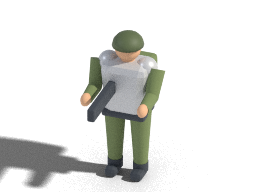
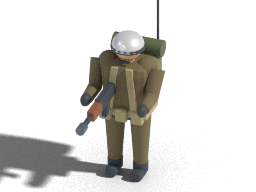
Rifleman after the concept sheet: team-colour helmet with star, field jacket, webbing, pack with bedroll and antenna, wooden rifle

diff --git a/tools/sprites/rh_models.py b/tools/sprites/rh_models.py
@@ -1091,9 +1091,11 @@ class Soldier:
         b = self.body
         vest = C['team']
         bulky = kind in ('arc', 'sapper', 'isotope')
-        gloved = bulky or kind == 'blink'
+        gloved = bulky or kind in ('blink', 'rifle')
         uniform = C['uniform']
-        if kind == 'sniper':
+        if kind == 'rifle':   # field jacket, after the concept sheet
+            uniform = mat('#675a3b' if f == 'allied' else '#7d6f4c', rough=0.85, name='fieldjacket_' + f)
+        elif kind == 'sniper':
             uniform = mat('#55603f', rough=0.9, name='ghillie')
         elif kind == 'arc':
             uniform = C['steel']
@@ -1109,7 +1111,7 @@ class Soldier:
             uniform = mat('#b4bfcc', metal=0.45, rough=0.35, name='blinkarmor')
         elif kind == 'scout':
             uniform = mat('#9a8f6a', rough=0.85, name='scoutdrab')
-        torso = uniform if kind in ('psion', 'infiltrator') else vest   # coat / jacket instead of a vest
+        torso = uniform if kind in ('psion', 'infiltrator', 'rifle') else vest   # coat / jacket instead of a vest
         psy = mat('#d58cff', emit=6.0, name='psyglow')
         rad = mat('#7dff5a', emit=5.0, name='radglow')
         phase = mat('#d8f0ff', emit=6.0, name='blinkglow')
@@ -1210,6 +1212,18 @@ class Soldier:
             b.sphere((-0.16, 0, 0.45), 0.035, phase)
             for s in (-1, 1):
                 b.sphere((0, s * 0.1, 0.415), 0.04, vest, scale=(1.2, 1, 0.7))
+        elif kind == 'rifle':
+            web = mat('#a1936a', rough=0.8, name='webbing')
+            olive = mat('#6f7049', rough=0.85, name='packolive')
+            for s in (-1, 1):   # shoulder straps down to the belt
+                b.box((0.058, s * 0.045, 0.24), (0.012, 0.022, 0.18), web, bevel=0, shift=(0, -s * 0.02))
+            b.box((0, 0, 0.235), (0.118, 0.172, 0.03), web, bevel=0.01)                  # belt
+            for y in (-0.055, 0.0, 0.055):                                                # ammo pouches
+                b.box((0.062, y, 0.225), (0.022, 0.04, 0.045), web, bevel=0.006)
+            b.cyl((-0.01, -0.095, 0.2), 0.022, 0.045, mat('#4f5a3a', rough=0.6, name='canteen'), seg=10)
+            b.box((-0.095, 0, 0.26), (0.075, 0.15, 0.15), olive, bevel=0.018)            # pack
+            b.cyl((-0.1, -0.085, 0.425), 0.028, 0.17, mat('#4f5a3a', rough=0.8, name='bedroll'), axis='Y', seg=12)
+            b.cyl((-0.12, 0.06, 0.38), 0.004, 0.24, C['dark'], seg=4)                    # radio antenna
         elif kind == 'scout':
             # small radio pack with a whip antenna
             b.box((-0.085, 0, 0.27), (0.06, 0.12, 0.12), C['hull2'], bevel=0.014)
@@ -1270,6 +1284,11 @@ class Soldier:
         elif kind == 'blink':
             b.sphere((0, 0, 0.48), 0.066, uniform, scale=(1.08, 1, 1.0))
             b.box((0.045, 0, 0.463), (0.03, 0.09, 0.028), phase, bevel=0.006)          # visor
+        elif kind == 'rifle':   # helmet in team colour, rim band, star badge
+            b.sphere((0, 0, 0.482), 0.068, C['team'], scale=(1.07, 1.02, 0.9), half=True)
+            b.cyl((0, 0, 0.476), 0.071, 0.014, C['dark'], seg=18)
+            b.cyl((0.066, 0, 0.51), 0.014, 0.004, mat('#f2f0e8', rough=0.5, name='star'), axis='X', seg=5)
+            b.box((0.05, 0, 0.43), (0.01, 0.05, 0.008), C['dark'], bevel=0)             # chin strap
         else:
             b.sphere((0, 0, 0.488), 0.066, C['helmet'], scale=(1.05, 1, 0.85), half=True)
         for ob in b.objects[head_first:]:
@@ -1371,6 +1390,17 @@ class Soldier:
             self.gun.box((0.05, 0, 0.03), (0.12, 0.012, 0.006), phase, bevel=0)
             self.gun.box((-0.07, 0, -0.035), (0.06, 0.024, 0.05), C['dark'], bevel=0.005)
             self.flash = self.gun.ico((0.19, 0, 0.005), 0.04, mat('#e6f6ff', emit=14.0, name='blinkflash'), subdiv=1)
+        elif kind == 'rifle':   # wooden furniture, magazine, muzzle brake
+            wood = mat('#7a4a28', rough=0.6, name='riflewood')
+            self.gun = Part('gun', b)
+            self.gun.root.location = (0.06, -0.035, 0.34)
+            self.gun.box((0.05, 0, -0.022), (0.16, 0.026, 0.045), C['dark'], bevel=0.005)
+            self.gun.box((0.16, 0, -0.018), (0.08, 0.028, 0.036), wood, bevel=0.006)
+            self.gun.box((-0.07, 0, -0.045), (0.1, 0.024, 0.06), wood, bevel=0.008, shift=(-0.01, 0))
+            self.gun.box((0.06, 0, -0.07), (0.026, 0.02, 0.05), C['dark'], bevel=0.004, shift=(-0.01, 0))
+            self.gun.cyl((0.2, 0, 0.0), 0.009, 0.07, C['dark'], axis='X', seg=8)
+            self.gun.cyl((0.265, 0, 0.0), 0.016, 0.035, C['steel'], axis='X', seg=8)
+            self.flash = self.gun.ico((0.32, 0, 0), 0.045, flash_mat, subdiv=1)
         else:
             self.gun = Part('gun', b)
             self.gun.root.location = (0.06, -0.035, 0.34)
